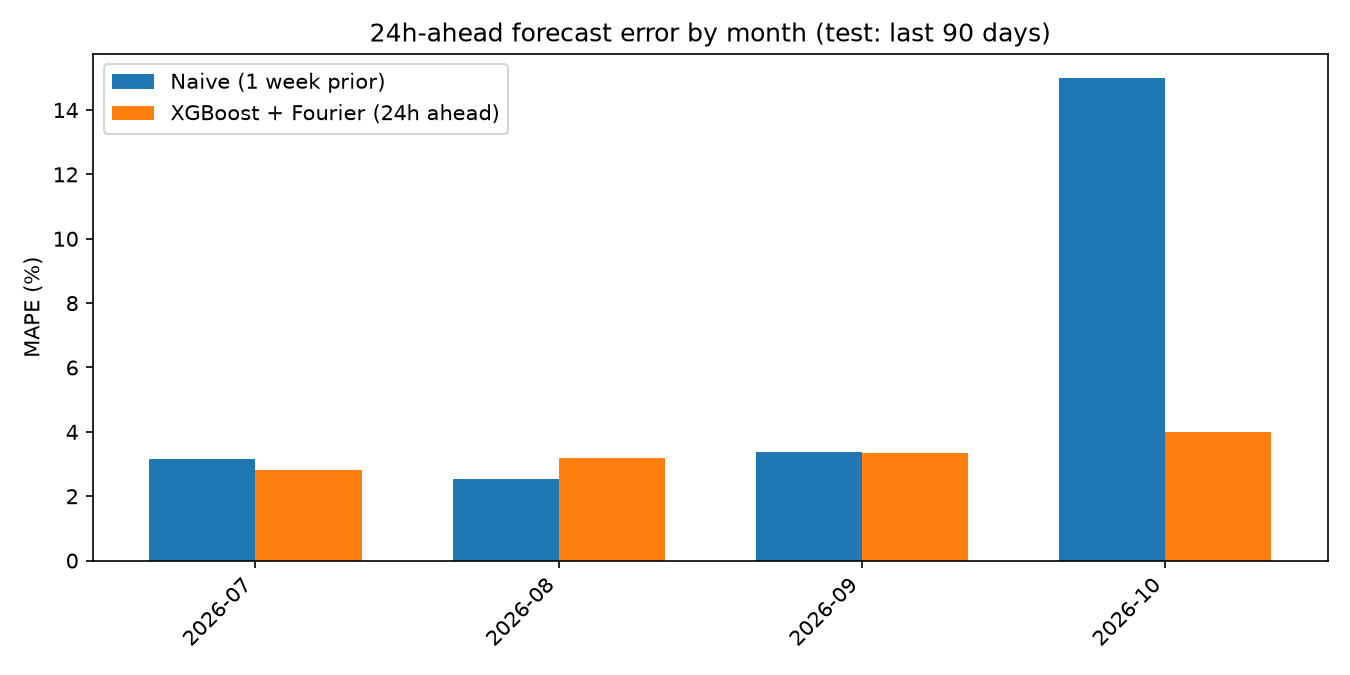
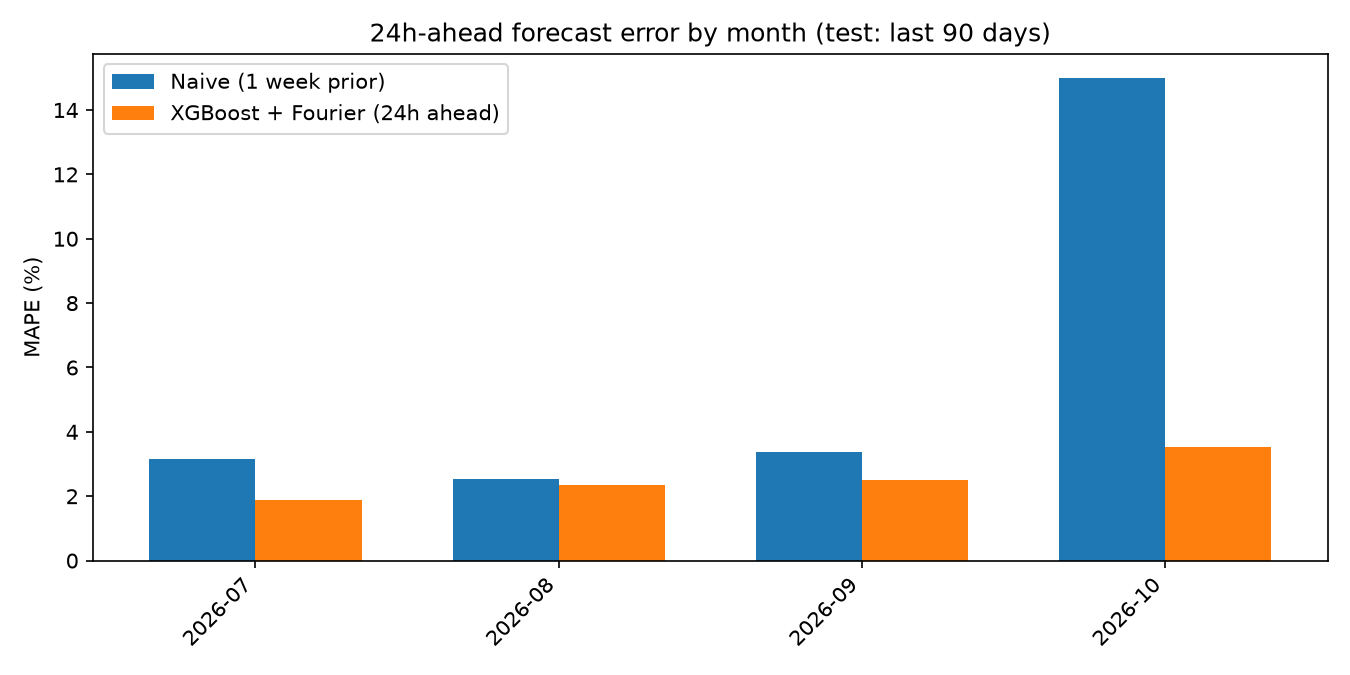
v2: per-zone weather overtakes SARIMA outright
Known limitation from v1 ("single weather station") turned out to be
the real bottleneck, not model choice. fetch_data.py now pulls one
weather station per ERCOT weather zone (8 total: Houston for Coast,
Midland for Far West, Wichita Falls for North, etc.) instead of
Austin alone for the whole state, and keeps per-zone load columns
both sources already report.

Result: XGBoost + Fourier + 8-zone weather drops full-test MAPE from
3.45% to 2.70%, and on the exact matched timestamps SARIMA was
evaluated on, now beats it outright (2.65% vs 3.07%) — improvement
held in every month, not one lucky stretch. The bottleneck was the
data's geography, not the model architecture or feature engineering
cleverness.

diff --git a/scripts/fetch_data.py b/scripts/fetch_data.py
@@ -1,4 +1,5 @@
-"""Pull ~3 years of ERCOT system load and matching Austin weather.
+"""Pull ~3 years of ERCOT system load (by weather zone) and matching
+weather for a representative city in each zone.
 
 Combines two ERCOT sources to get continuous history instead of the ~30
 days available from the live feed alone:
@@ -7,6 +8,11 @@ days available from the live feed alone:
      - full years, posted with a settlement lag, no auth required.
   2. The live "Actual System Load by Weather Zone" document feed (via
      gridstatus) for the trailing window not yet covered by an archive.
+
+v1.2: keeps per-zone load (both sources already report it — we were
+dropping it down to one system-wide total) and pulls weather for one city
+per zone instead of Austin alone, since ERCOT spans climates from Houston
+humidity to West Texas heat to Panhandle cold snaps.
 
 NOTE: the archive URLs below are current as of Oct 2026. ERCOT doesn't
 expose a stable index of these files, so the URL for the in-progress
@@ -34,7 +40,26 @@ ARCHIVE_URLS = [
     "https://www.ercot.com/files/docs/2026/02/10/Native_Load_2026-1-.zip",
 ]
 
-AUSTIN_LAT, AUSTIN_LON = 30.27, -97.74
+# ERCOT's 8 official weather zones, with a representative city per zone.
+# One canonical name per zone; the two data sources label them differently
+# (the static archives use short codes, the live feed spells them out).
+ZONE_STATIONS = {
+    "Coast": (29.76, -95.37),          # Houston
+    "East": (32.35, -95.30),           # Tyler
+    "Far West": (31.997, -102.077),    # Midland
+    "North": (33.91, -98.49),          # Wichita Falls
+    "North Central": (32.78, -96.80),  # Dallas
+    "South Central": (30.27, -97.74),  # Austin
+    "Southern": (27.80, -97.40),       # Corpus Christi (ERCOT's "South" zone)
+    "West": (31.46, -100.44),          # San Angelo
+}
+
+ARCHIVE_ZONE_COLUMNS = {
+    "COAST": "Coast", "EAST": "East", "FWEST": "Far West", "NORTH": "North",
+    "NCENT": "North Central", "SOUTH": "Southern", "SCENT": "South Central", "WEST": "West",
+}
+LIVE_ZONE_COLUMNS = list(ZONE_STATIONS.keys())  # already spelled out correctly
+
 ROOT = Path(__file__).resolve().parent.parent
 RAW_DIR = ROOT / "data" / "raw"
 CACHE_DIR = RAW_DIR / "_archive_cache"
@@ -65,23 +90,25 @@ def fetch_archive_year(url: str) -> pd.DataFrame:
     # still same date under this convention).
     base_date = pd.to_datetime(date_part, format="%m/%d/%Y")
     df["Time"] = base_date + pd.to_timedelta(hour_part - 1, unit="h")
-    return df[["Time", "ERCOT"]].rename(columns={"ERCOT": "load_mw"})
+
+    out = df[["Time", "ERCOT"] + list(ARCHIVE_ZONE_COLUMNS)].rename(columns={"ERCOT": "load_mw", **ARCHIVE_ZONE_COLUMNS})
+    return out
 
 
 def fetch_live_load(start: date, end: date) -> pd.DataFrame:
     iso = gridstatus.Ercot()
     df = iso.get_load_by_weather_zone(start.isoformat(), end=end.isoformat())
-    df = df[["Time", "System Total"]].rename(columns={"System Total": "load_mw"})
+    df = df[["Time", "System Total"] + LIVE_ZONE_COLUMNS].rename(columns={"System Total": "load_mw"})
     df["Time"] = pd.to_datetime(df["Time"]).dt.tz_convert("US/Central").dt.tz_localize(None)
     return df
 
 
-def fetch_weather(start: date, end: date) -> pd.DataFrame:
+def fetch_weather(start: date, end: date, lat: float, lon: float) -> pd.Series:
     resp = requests.get(
         "https://archive-api.open-meteo.com/v1/archive",
         params={
-            "latitude": AUSTIN_LAT,
-            "longitude": AUSTIN_LON,
+            "latitude": lat,
+            "longitude": lon,
             "start_date": start.isoformat(),
             "end_date": end.isoformat(),
             "hourly": "temperature_2m",
@@ -91,7 +118,7 @@ def fetch_weather(start: date, end: date) -> pd.DataFrame:
     )
     resp.raise_for_status()
     hourly = resp.json()["hourly"]
-    return pd.DataFrame({"Time": pd.to_datetime(hourly["time"]), "temp_c": hourly["temperature_2m"]})
+    return pd.DataFrame({"Time": pd.to_datetime(hourly["time"]), "temp": hourly["temperature_2m"]}).set_index("Time")["temp"]
 
 
 def main() -> None:
@@ -113,15 +140,19 @@ def main() -> None:
     overall_end = load_df["Time"].max().date()
     print(f"Combined load history: {overall_start} to {overall_end} ({len(load_df)} hourly rows)")
 
-    print("Fetching Austin weather for the full span...")
-    weather_df = fetch_weather(overall_start, overall_end)
+    merged = load_df.set_index("Time")
+    for zone, (lat, lon) in ZONE_STATIONS.items():
+        print(f"Fetching weather for {zone} zone ({lat}, {lon})...")
+        temp = fetch_weather(overall_start, overall_end, lat, lon)
+        col = f"temp_c_{zone.lower().replace(' ', '_')}"
+        merged[col] = temp
 
-    merged = pd.merge(load_df, weather_df, on="Time", how="inner").sort_values("Time")
+    merged = merged.dropna().reset_index()
 
     RAW_DIR.mkdir(parents=True, exist_ok=True)
     out_path = RAW_DIR / "ercot_load_weather.csv"
     merged.to_csv(out_path, index=False)
-    print(f"Saved {len(merged)} rows to {out_path}")
+    print(f"Saved {len(merged)} rows, {len(merged.columns)} columns to {out_path}")
 
 
 if __name__ == "__main__":

diff --git a/scripts/train_baseline.py b/scripts/train_baseline.py
@@ -10,6 +10,10 @@ since compare_classical.py found that SARIMA's seasonal term alone beat
 this model — the suspicion was XGBoost didn't have an equivalent signal,
 not that gradient boosting is inherently worse here.
 
+v1.2: uses temperature from all 8 ERCOT weather zones instead of Austin
+alone (fetch_data.py now pulls one station per zone) — ERCOT spans
+climates from Houston humidity to West Texas heat to Panhandle cold.
+
 Simplification carried over from v0: uses the actual recorded temperature
 at the target hour as a stand-in for a weather *forecast*. A real forecast
 feed is still a known follow-up (see README).
@@ -27,6 +31,10 @@ HORIZON_HOURS = 24
 TEST_DAYS = 90
 DAILY_HARMONICS = 3
 WEEKLY_HARMONICS = 2
+ZONE_TEMP_COLS = [
+    "temp_c_coast", "temp_c_east", "temp_c_far_west", "temp_c_north",
+    "temp_c_north_central", "temp_c_south_central", "temp_c_southern", "temp_c_west",
+]
 
 ROOT = Path(__file__).resolve().parent.parent
 RAW_PATH = ROOT / "data" / "raw" / "ercot_load_weather.csv"
@@ -64,7 +72,8 @@ def build_features(df: pd.DataFrame) -> tuple[pd.DataFrame, list[str]]:
     out["target_dow"] = df["dow"].shift(-HORIZON_HOURS)
     out["target_month"] = out["target_time"].dt.month
     out["target_is_weekend"] = out["target_dow"].isin([5, 6]).astype(int)
-    out["target_temp_c"] = df["temp_c"].shift(-HORIZON_HOURS)
+    for col in ZONE_TEMP_COLS:
+        out[f"target_{col}"] = df[col].shift(-HORIZON_HOURS)
 
     out["load_now"] = df["load_mw"]
     # load at (target_time - 168h) == load at (now - (168 - HORIZON_HOURS))
@@ -81,8 +90,8 @@ def main() -> None:
 
     feature_cols = [
         "target_hour", "target_dow", "target_is_weekend", "target_month",
-        "target_temp_c", "load_now", "load_week_before_target",
-    ] + fourier_cols
+        "load_now", "load_week_before_target",
+    ] + [f"target_{c}" for c in ZONE_TEMP_COLS] + fourier_cols
 
     cutoff = data["target_time"].max() - pd.Timedelta(days=TEST_DAYS)
     train = data[data["target_time"] <= cutoff]

diff --git a/README.md b/README.md
@@ -4,7 +4,7 @@ Short-horizon (24h-ahead) load forecasting for the Texas grid: naive
 baseline, ARIMA, SARIMA, and XGBoost, benchmarked against each other on
 the same held-out window.
 
-Status: **v1 — four models backtested across a seasonal transition.**
+Status: **v2 — XGBoost overtakes SARIMA once it gets per-zone weather.**
 Part of [Bat City AI](https://batcityai.com)'s Year One programs.
 
 ## Result (most recent run)
@@ -18,27 +18,42 @@ ARIMA/SARIMA are backtested from 6 different hours-of-day (00:00, 04:00,
 |---|---|
 | Naive (1 week prior) | 6.30% |
 | ARIMA(2,1,2) | 3.79% |
-| XGBoost + Fourier (24h ahead) | 3.45% |
-| **SARIMA(1,0,1)(1,1,1,24)** | **3.07%** |
+| SARIMA(1,0,1)(1,1,1,24) | 3.07% |
+| **XGBoost + Fourier + 8-zone weather (24h ahead)** | **2.70%** |
 
-**SARIMA still wins, but the margin is much smaller than it first looked.**
-An earlier version of this backtest only ever forecast from midnight (a
-bug in how the rolling origins were spaced — see commit history) and made
-SARIMA look better than it is: 2.65% vs. XGBoost's 3.53%, a 0.8-point gap.
-Spread across 6 hours-of-day instead, SARIMA's own score gets *worse*
-(2.65% → 3.07%) and the gap to XGBoost+Fourier on the identical matched
-timestamps narrows to 0.28 points (3.07% vs. 3.35%). The ranking didn't
-flip, but "SARIMA clearly wins" became "SARIMA has a real but modest edge"
-once the easier evaluation slice was corrected. Worth remembering before
-trusting any single-slice backtest.
+**XGBoost now wins outright.** The previous round (v1.1) gave XGBoost
+Fourier terms for the daily/weekly cycle and it still lost to SARIMA
+(3.45% vs. 3.07%, or 3.35% vs. 3.07% on the exact matched timestamps).
+The missing piece turned out to be simpler than a better seasonal
+representation: **ERCOT spans multiple climates, and the model only ever
+saw Austin's temperature.** `fetch_data.py` now pulls one weather station
+per ERCOT weather zone (Houston for Coast, Midland for Far West,
+Wichita Falls for North, etc. — 8 zones total) instead of one station for
+the whole state. That alone dropped full-test MAPE from 3.45% to 2.70%,
+and on the identical matched timestamps SARIMA was evaluated on,
+XGBoost now scores 2.65% against SARIMA's 3.07%. The improvement held
+in every month, not just one lucky stretch (see table below).
+
+This is the more interesting finding than "model X beats model Y": the
+bottleneck wasn't the model architecture, Fourier terms, or anything
+clever — it was that the input data didn't represent the geography of the
+thing being forecast. Worth remembering before reaching for a fancier
+model when a simpler one is underfed.
+
+| Month | XGBoost + Fourier + 8-zone weather | Naive |
+|---|---|---|
+| 2026-07 | 1.88% | 3.17% |
+| 2026-08 | 2.35% | 2.53% |
+| 2026-09 | 2.50% | 3.39% |
+| 2026-10 | 3.52% | 14.99% |
 
 ![Forecast error by month](results/mape_by_month.png)
 
-The monthly breakdown (XGBoost vs. naive) shows why the naive baseline is
-dangerous to trust blindly: in July and August, when the weather is just
-"hot," same-hour-last-week is nearly as good as any model. The gap opens up
-hard in October (14.99% vs. 4.00% MAPE) once temperatures start swinging
-week to week.
+The monthly breakdown shows the naive baseline is dangerous to trust
+blindly: in July and August, when the weather is just "hot," same-hour-
+last-week is nearly as good as any model. The gap opens up hard in October
+once temperatures start swinging week to week — and even there, XGBoost
+with real geography now clearly leads.
 
 ![Forecast vs actual, last 14 days](results/forecast_vs_actual.png)
 
@@ -76,9 +91,10 @@ climbs far more gently across the full 24-hour horizon.
    Load by Weather Zone" feed (via [gridstatus](https://github.com/kmax12/gridstatus))
    for the trailing days not yet archived — giving continuous history from
    Jan 2024 through yesterday instead of the ~30 days the live feed alone
-   retains. Matching Austin temperature comes from
-   [Open-Meteo](https://open-meteo.com)'s free historical archive.
-2. `scripts/train_baseline.py` builds lag + calendar + temperature +
+   retains. Keeps per-zone load (both sources report it) and pulls
+   [Open-Meteo](https://open-meteo.com) historical weather for one city
+   per ERCOT weather zone (8 total), not just Austin.
+2. `scripts/train_baseline.py` builds lag + calendar + 8-zone-temperature +
    Fourier (daily/weekly sin-cos) features, trains an XGBoost regressor to
    predict load 24 hours out, and compares it to the naive baseline on a
    90-day held-out test window, with a monthly error breakdown and a
@@ -104,14 +120,18 @@ python3 scripts/train_baseline.py
 python3 scripts/compare_classical.py  # ~20-25 min: 535 ARIMA + SARIMA refits (6 hours-of-day x 90 days)
 ```
 
-## Known limitations (v2 candidates)
+## Known limitations (v3 candidates)
 
+- **SARIMA hasn't gotten the same upgrade.** XGBoost now wins, but SARIMA
+  is still univariate — it has never seen temperature at all, let alone
+  8 zones of it. A SARIMAX with exogenous weather regressors is the fair
+  rematch before concluding gradient boosting is really ahead here.
+- **Per-zone *load* (not just temperature) is sitting in the data unused.**
+  Both ERCOT sources already report load by zone; `fetch_data.py` keeps
+  those columns but `train_baseline.py` doesn't use them as features yet.
 - **Still not literally every hour.** 6 of 24 hours-of-day is a much more
-  representative sample than 1, but not exhaustive — a full 24-hour sweep
-  would take ~90 minutes of fitting and wasn't run.
-- **Fourier terms closed some, not all, of the gap to SARIMA.** Residual
-  diagnostics on SARIMA's fit, or feeding SARIMA's own forecast as an
-  XGBoost feature, are both reasonable next tries.
+  representative classical-model sample than 1, but not exhaustive — a
+  full 24-hour sweep would take ~90 minutes of fitting and wasn't run.
 - **Classical models use a short, fixed 21-day trailing window**, refit
   daily. Different window sizes or refit cadences weren't swept.
 - **Temperature is not a forecast.** The model uses the *actual* recorded
@@ -119,11 +139,6 @@ python3 scripts/compare_classical.py  # ~20-25 min: 535 ARIMA + SARIMA refits (6
   since this is a historical-data pipeline. A real deployment would need a
   genuine weather forecast feed, which has its own error and would make
   the model's real-world accuracy somewhat worse than shown here.
-- **Single weather station.** Austin only; ERCOT spans multiple climate
-  zones (Houston humidity, West Texas heat, Panhandle cold snaps). The
-  data already includes per-weather-zone load (Coast, East, Far West,
-  North, North Central, South, South Central, West) — adding a matching
-  station per zone is the next obvious lever.
 - **ERCOT archive URLs aren't stable.** The static yearly files are
   hand-coded in `fetch_data.py`; the current year's filename has an
   inconsistent versioning suffix, so the URL list needs occasional manual
